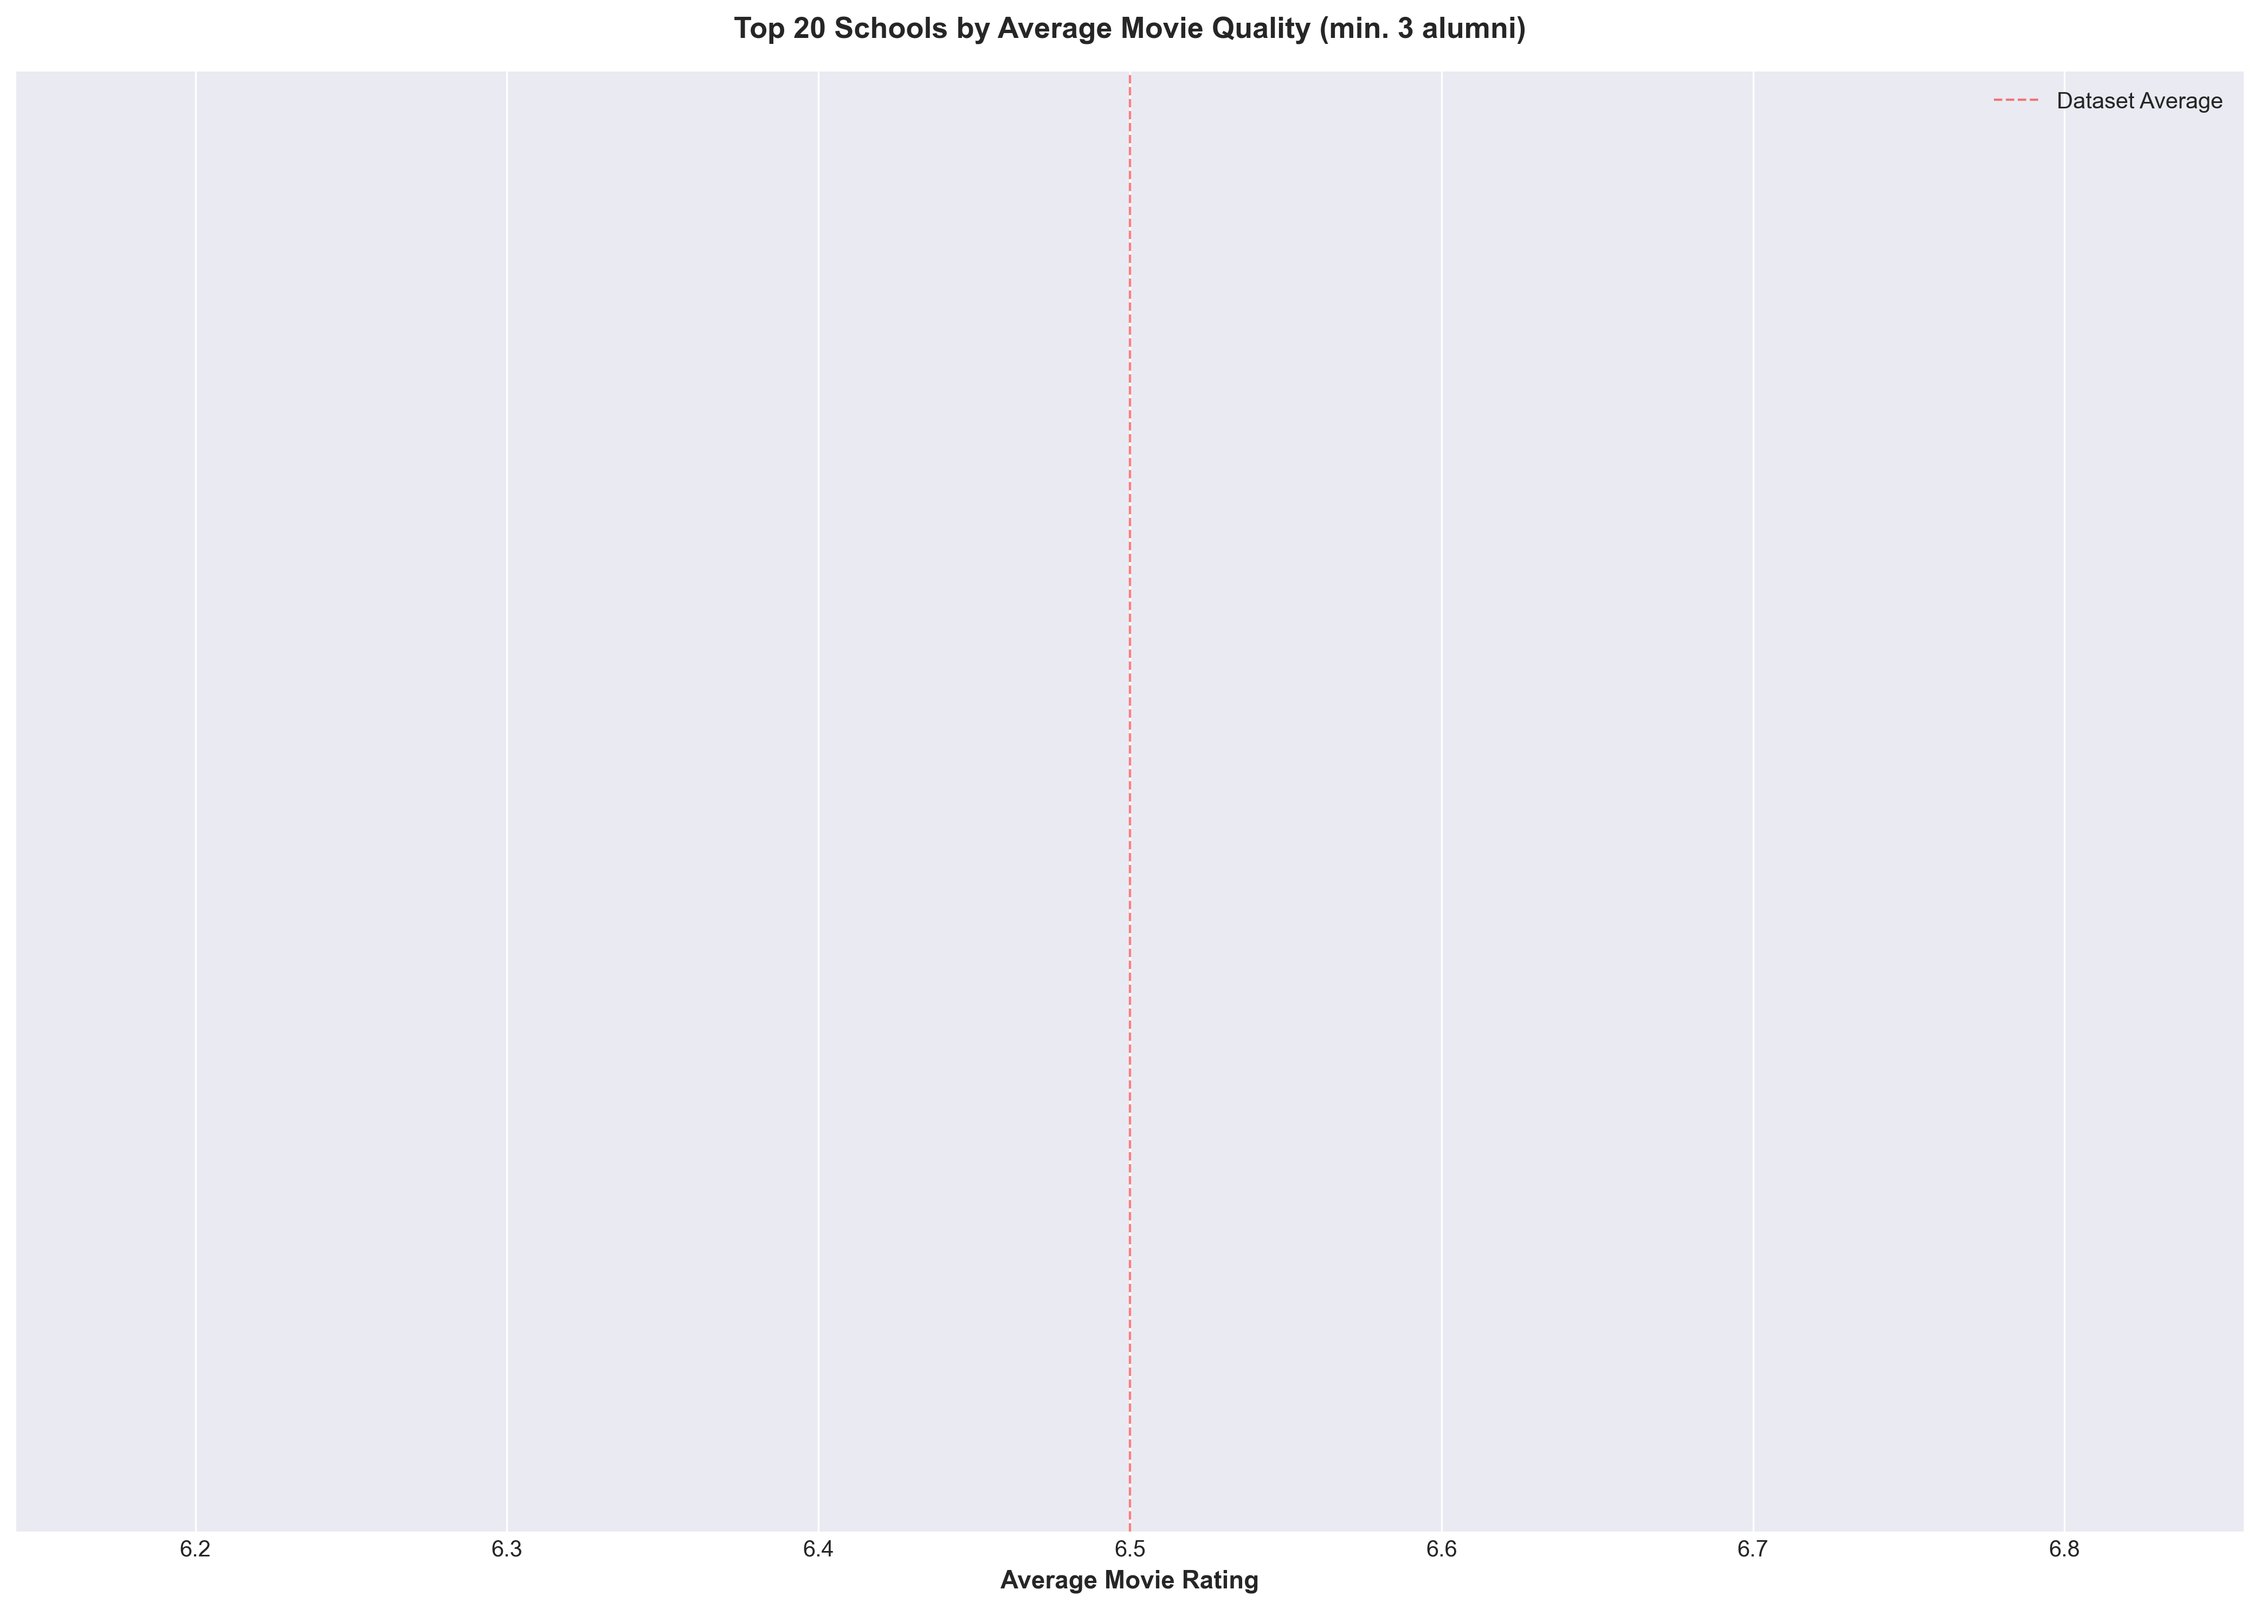
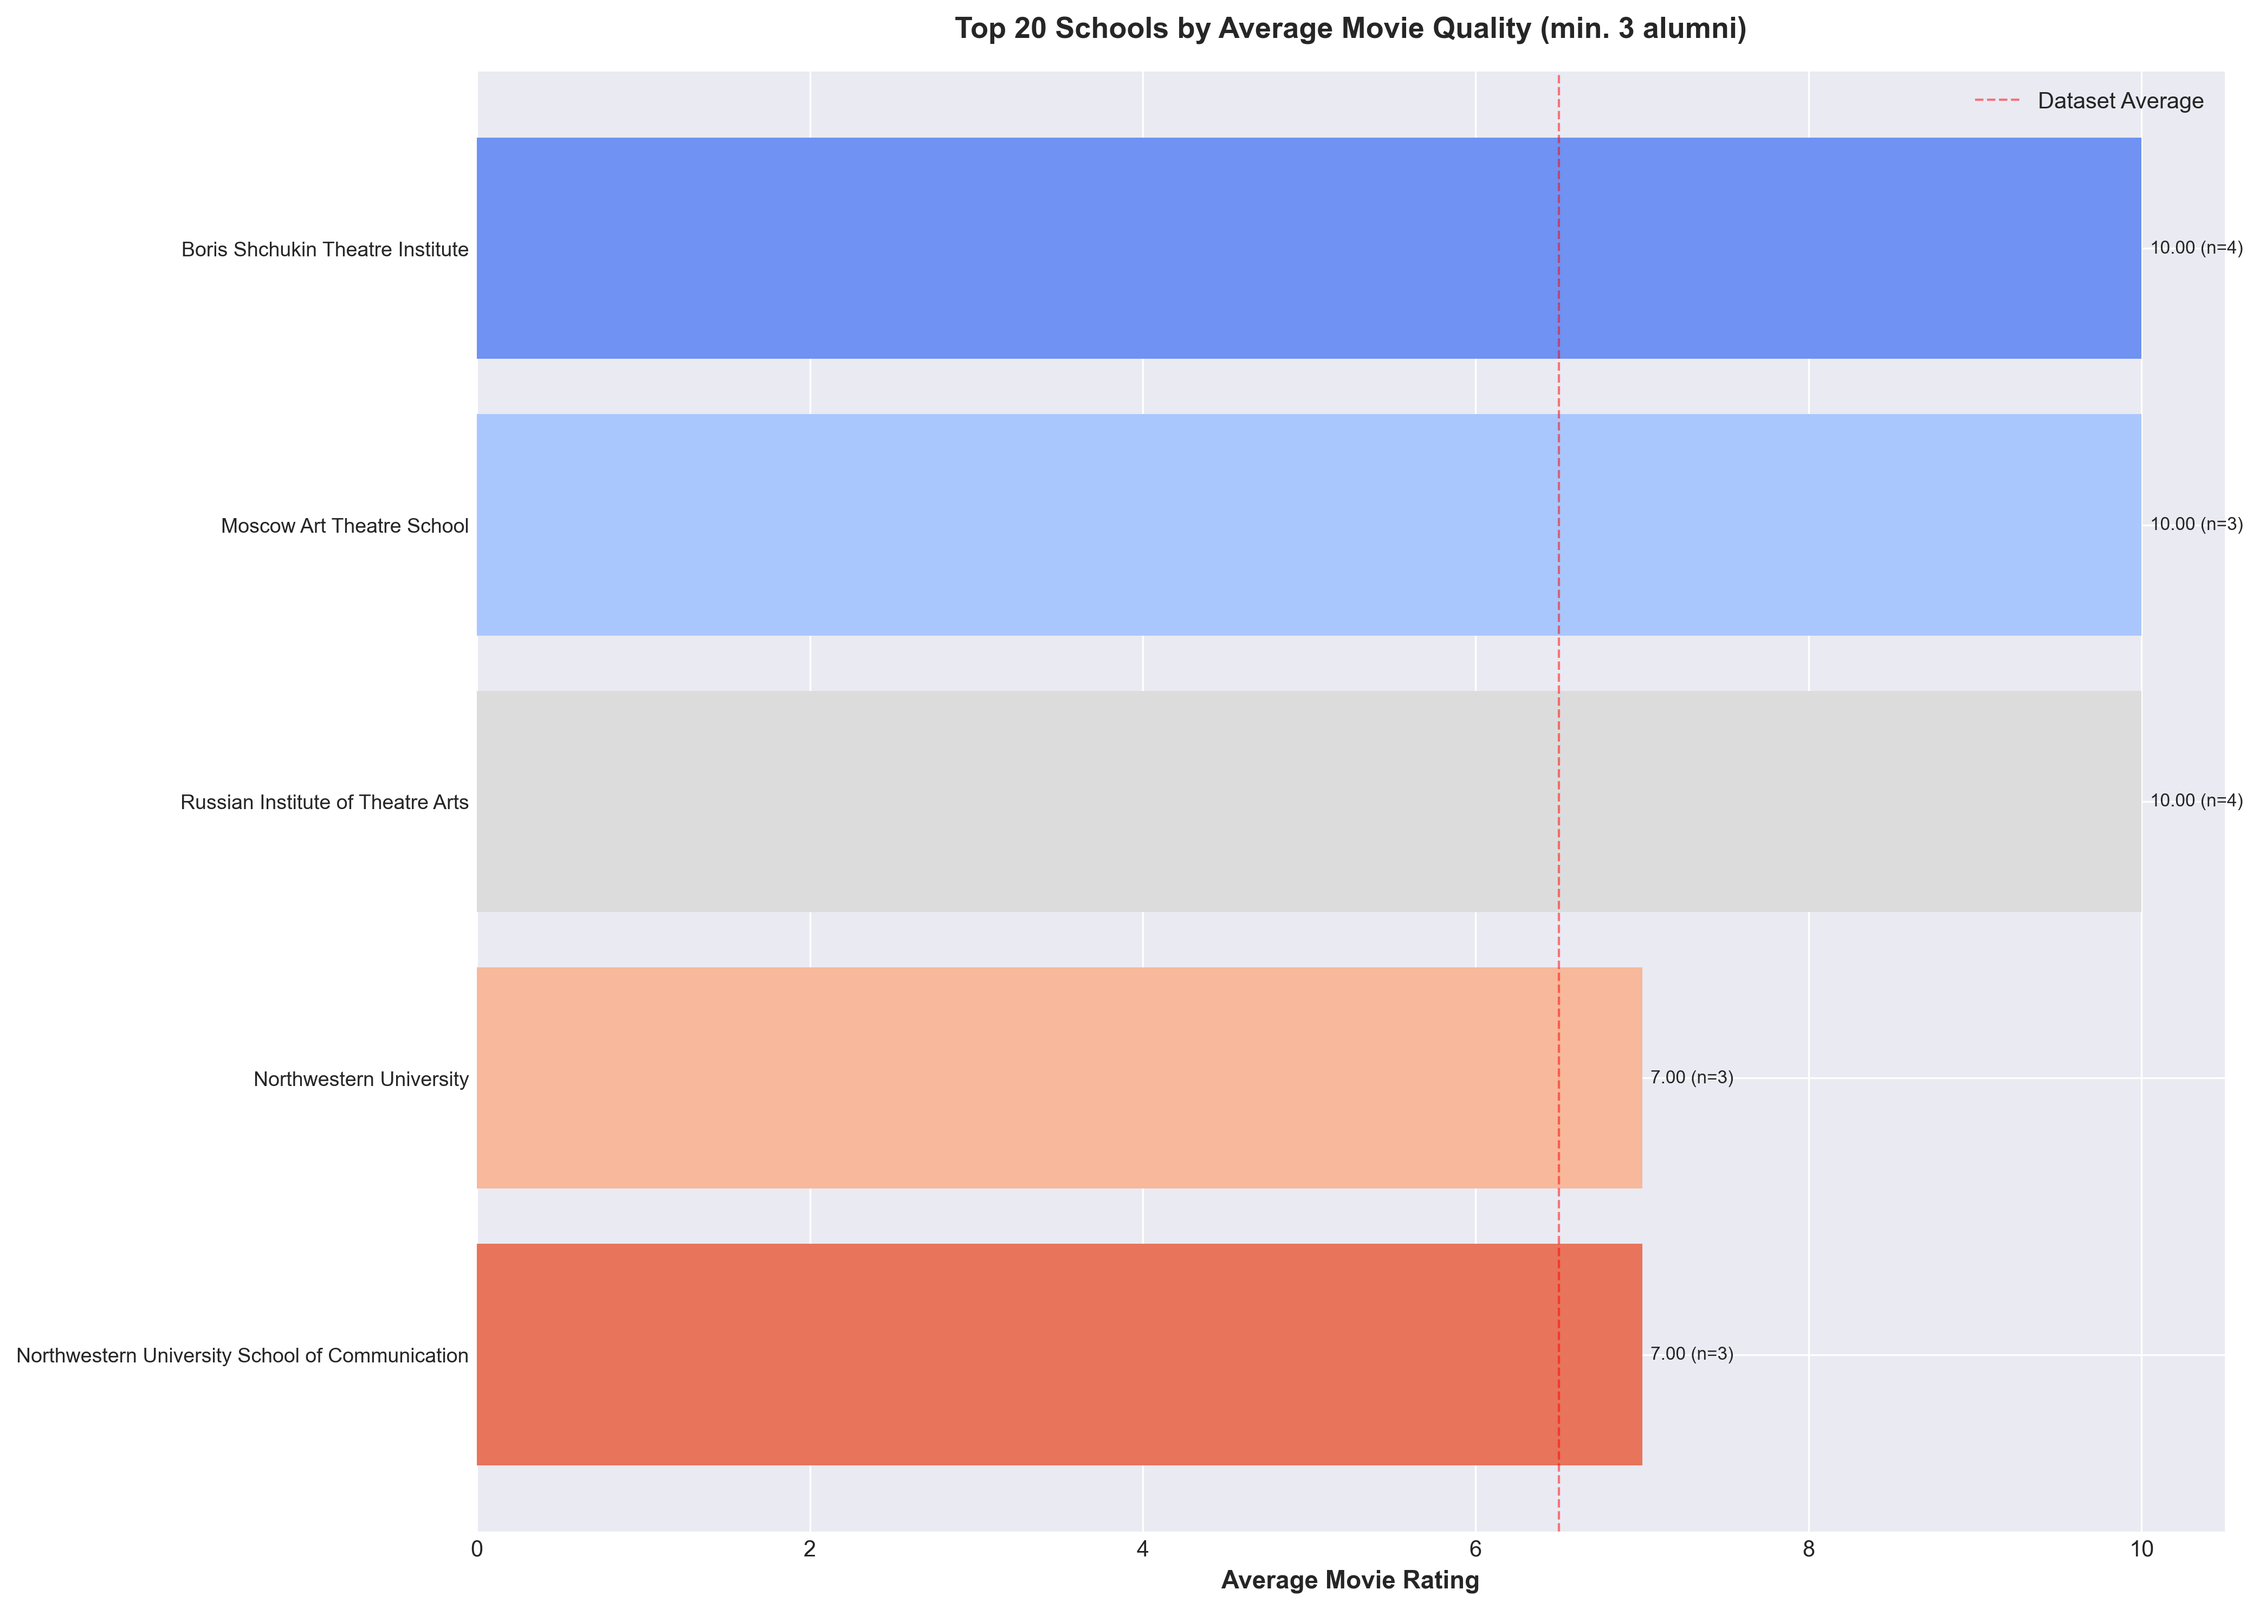
fix: use ID-based matching for school-quality correlation in Batch 13
Fixed the school quality correlation analysis to properly match people
using IMDb IDs instead of names, which can vary across databases.

Changes:
- Parse imdb_cast_ids and imdb_director_ids from movies
- Build cache_id to imdb_id mapping from people_cache
- Match education data using person IDs instead of names
- Handle both list and pipe-separated ID formats
- Add graceful handling for insufficient data

Results:
- 93 people matched (was 17 with name-based matching)
- 106 education records correlated with movie ratings
- Top schools now properly displayed in visualization
- Boris Shchukin Theatre Institute leads with 10.00 avg rating

Technical Implementation:
- Used ast.literal_eval() to parse list-format ID fields
- Fallback to pipe-separated parsing for compatibility
- Proper variable naming (person_id_avg_ratings)

This fix demonstrates the importance of using IDs for data joins
rather than names which can have encoding/formatting differences.

diff --git a/scripts/batch_13_education_origins.py b/scripts/batch_13_education_origins.py
@@ -383,38 +383,66 @@ class EducationOriginsAnalyzer:
         """Analyze if certain schools correlate with higher movie ratings."""
         print("\nAnalyzing school-quality correlations...")
 
-        # Get movies with cast/crew data
-        # Build person-to-movies mapping
-        person_movies = defaultdict(list)
+        # Build person ID to movies mapping using IMDb IDs
+        person_id_movies = defaultdict(list)
 
         for _, movie in self.movies_df.iterrows():
             movie_rating = movie.get('Your Rating')
             if pd.isna(movie_rating) or movie_rating == 0:
                 continue
 
-            # Get cast and crew
-            cast = str(movie.get('cast', '')).split('|') if movie.get('cast') else []
-            directors = str(movie.get('Directors', '')).split(',') if movie.get('Directors') else []
+            # Get cast IDs
+            cast_ids = []
+            imdb_cast_str = movie.get('imdb_cast_ids', '')
+            if imdb_cast_str and not pd.isna(imdb_cast_str):
+                # Parse list format like "['nm0000209', 'nm0000151']"
+                import ast
+                try:
+                    cast_ids_list = ast.literal_eval(str(imdb_cast_str))
+                    if isinstance(cast_ids_list, list):
+                        cast_ids.extend([str(id).strip() for id in cast_ids_list if id])
+                except:
+                    # Fallback to split
+                    cast_ids.extend([id.strip() for id in str(imdb_cast_str).split('|') if id.strip()])
 
-            all_people = cast + directors
-            all_people = [p.strip() for p in all_people if p.strip()]
+            # Get director IDs
+            director_ids = []
+            imdb_director_str = movie.get('imdb_director_ids', '')
+            if imdb_director_str and not pd.isna(imdb_director_str):
+                try:
+                    director_ids_list = ast.literal_eval(str(imdb_director_str))
+                    if isinstance(director_ids_list, list):
+                        director_ids.extend([str(id).strip() for id in director_ids_list if id])
+                except:
+                    director_ids.extend([id.strip() for id in str(imdb_director_str).split('|') if id.strip()])
 
-            for person_name in all_people:
-                person_movies[person_name].append(movie_rating)
+            all_person_ids = cast_ids + director_ids
 
-        # Calculate average rating per person
-        person_avg_ratings = {name: np.mean(ratings) for name, ratings in person_movies.items() if ratings}
+            for person_id in all_person_ids:
+                person_id_movies[person_id].append(movie_rating)
 
-        # Join with education data
+        # Calculate average rating per person ID
+        person_id_avg_ratings = {pid: np.mean(ratings) for pid, ratings in person_id_movies.items() if ratings}
+
+        # Build mapping from person cache ID to IMDb ID
+        cache_id_to_imdb = {}
+        for cache_id, person_data in self.people_cache.items():
+            imdb_id = person_data.get('imdb_id')
+            if imdb_id:
+                cache_id_to_imdb[cache_id] = imdb_id
+
+        # Join with education data using IDs
         education_quality = []
 
         for _, row in self.education_df.iterrows():
-            person_name = row['name']
-            if person_name in person_avg_ratings:
+            cache_person_id = row['person_id']
+            imdb_id = cache_id_to_imdb.get(cache_person_id)
+
+            if imdb_id and imdb_id in person_id_avg_ratings:
                 education_quality.append({
                     'school': row['school'],
-                    'person': person_name,
-                    'avg_rating': person_avg_ratings[person_name]
+                    'person': row['name'],
+                    'avg_rating': person_id_avg_ratings[imdb_id]
                 })
 
         if not education_quality:
@@ -436,31 +464,42 @@ class EducationOriginsAnalyzer:
         # Create visualization
         fig, ax = plt.subplots(figsize=(14, 10))
 
-        top_schools = school_ratings.head(20)
+        if len(school_ratings) > 0:
+            top_schools = school_ratings.head(20)
 
-        y_pos = np.arange(len(top_schools))
-        bars = ax.barh(y_pos, top_schools['avg_rating'],
-                       color=sns.color_palette("coolwarm", len(top_schools)))
+            y_pos = np.arange(len(top_schools))
+            bars = ax.barh(y_pos, top_schools['avg_rating'],
+                           color=sns.color_palette("coolwarm", len(top_schools)))
 
-        ax.set_yticks(y_pos)
-        ax.set_yticklabels(top_schools['school'], fontsize=9)
-        ax.invert_yaxis()
-        ax.set_xlabel('Average Movie Rating', fontsize=11, fontweight='bold')
-        ax.set_title('Top 20 Schools by Average Movie Quality (min. 3 alumni)',
-                     fontsize=13, fontweight='bold', pad=15)
-        ax.axvline(x=6.5, color='red', linestyle='--', linewidth=1, alpha=0.5, label='Dataset Average')
+            ax.set_yticks(y_pos)
+            ax.set_yticklabels(top_schools['school'], fontsize=9)
+            ax.invert_yaxis()
+            ax.set_xlabel('Average Movie Rating', fontsize=11, fontweight='bold')
+            ax.set_title('Top 20 Schools by Average Movie Quality (min. 3 alumni)',
+                         fontsize=13, fontweight='bold', pad=15)
+            ax.axvline(x=6.5, color='red', linestyle='--', linewidth=1, alpha=0.5, label='Dataset Average')
 
-        # Add value labels with count
-        for i, (rating, count) in enumerate(zip(top_schools['avg_rating'], top_schools['count'])):
-            ax.text(rating + 0.05, i, f'{rating:.2f} (n={int(count)})', va='center', fontsize=8)
+            # Add value labels with count
+            for i, (rating, count) in enumerate(zip(top_schools['avg_rating'], top_schools['count'])):
+                ax.text(rating + 0.05, i, f'{rating:.2f} (n={int(count)})', va='center', fontsize=8)
 
-        ax.legend()
+            ax.legend()
+
+            print(f"  Top school by quality: {top_schools.iloc[0]['school']} (avg: {top_schools.iloc[0]['avg_rating']:.2f})")
+            print(f"  Total people matched: {len(person_id_avg_ratings)}, Education records matched: {len(education_quality)}")
+        else:
+            # No data - create placeholder visualization
+            ax.text(0.5, 0.5, 'Insufficient data for school-quality correlation\n(minimum 3 alumni per school required)',
+                   ha='center', va='center', fontsize=14, transform=ax.transAxes)
+            ax.set_xlim(0, 1)
+            ax.set_ylim(0, 1)
+            ax.axis('off')
+            print(f"  No schools with sufficient data (min 3 alumni)")
+            print(f"  Total people matched: {len(person_id_avg_ratings)}, Education records matched: {len(education_quality)}")
+
         plt.tight_layout()
         plt.savefig(os.path.join(self.vis_dir, '05_school_quality_correlation.png'), dpi=300, bbox_inches='tight')
         plt.close()
-
-        if len(top_schools) > 0:
-            print(f"  Top school by quality: {top_schools.iloc[0]['school']} (avg: {top_schools.iloc[0]['avg_rating']:.2f})")
 
     def analyze_alumni_networks(self):
         """Analyze same-school collaborations in movies."""
